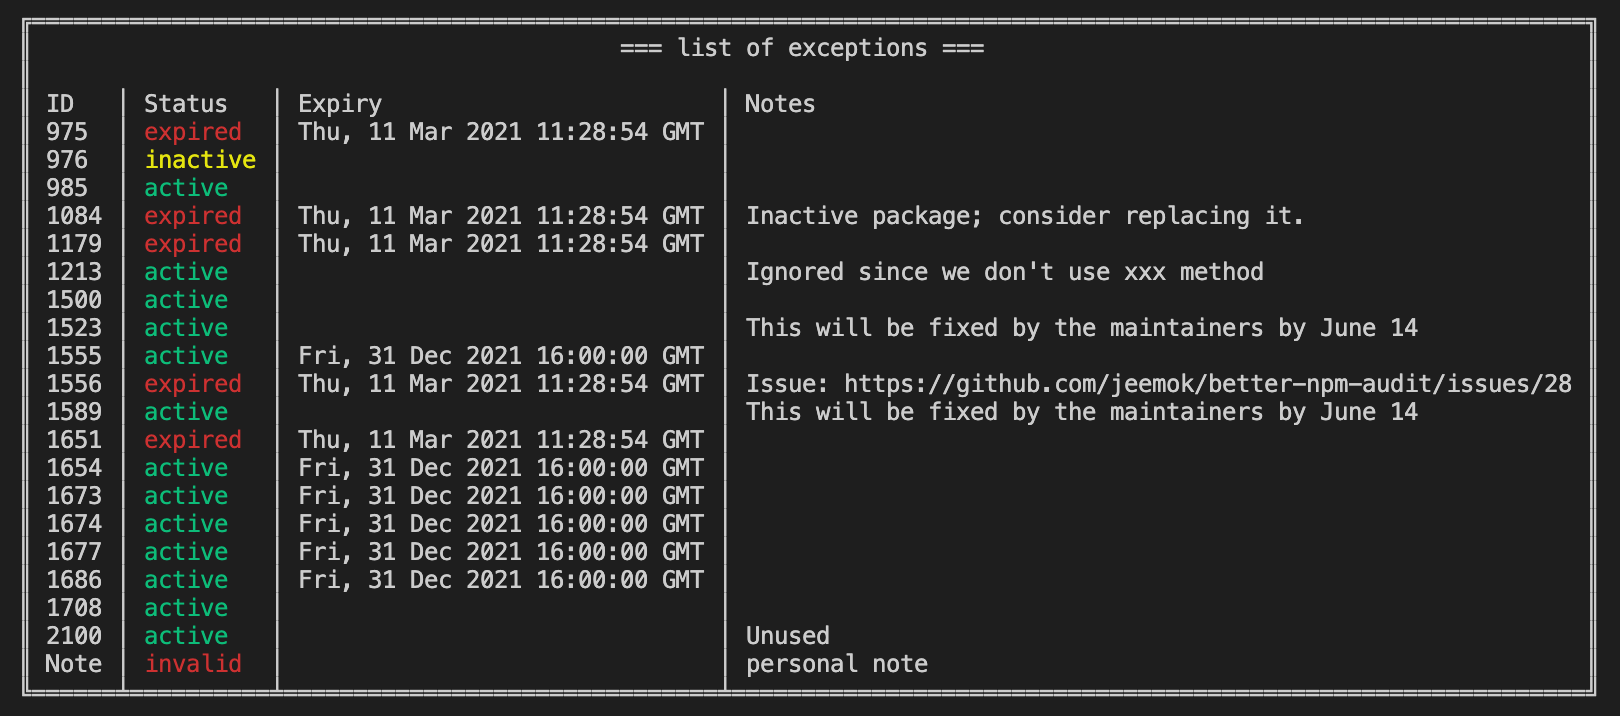
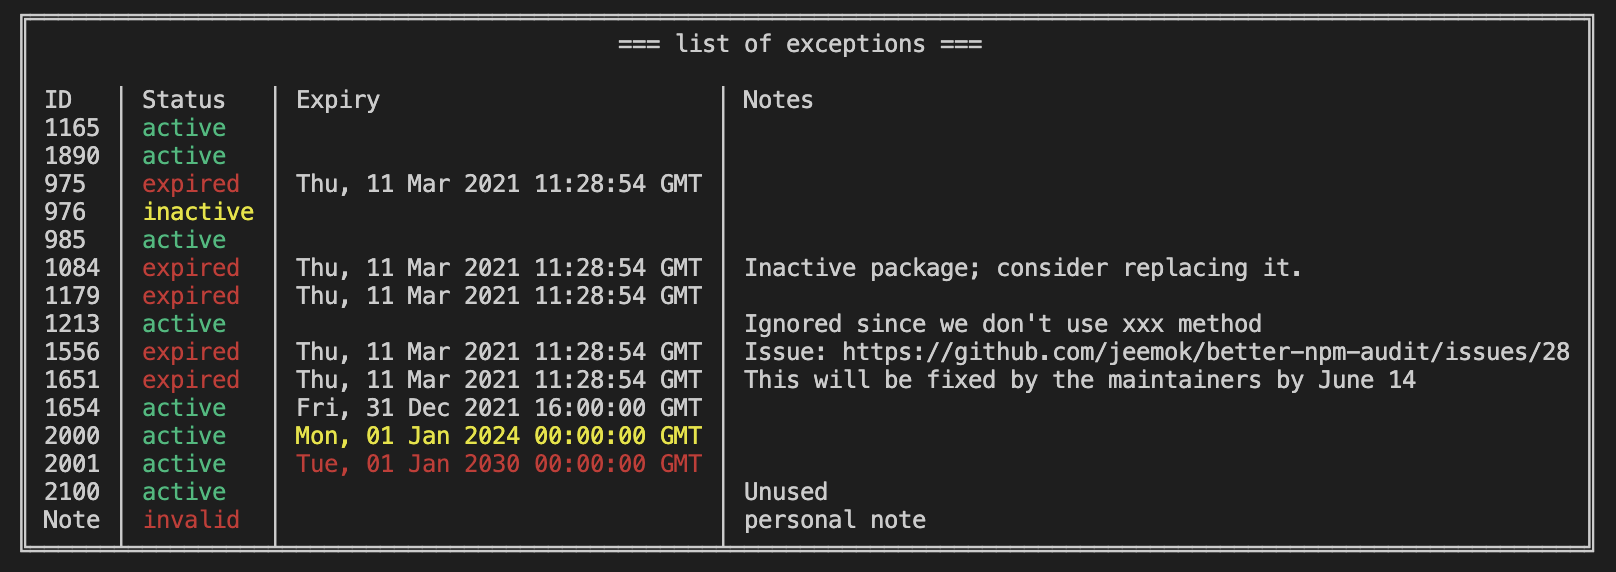
Style the exception expiry date if it is more than one or five years ago

Changed region(s): [[0.0, 0.0297, 0.9901, 0.9808], [0.4641, 0.2675, 0.8045, 0.3269], [0.4641, 0.3566, 0.7735, 0.4161]]

diff --git a/test/utils/date.test.ts b/test/utils/date.test.ts
@@ -52,46 +52,40 @@ describe('Date utils', () => {
 
     it('should be able to analyze the given timestamp correctly', () => {
       // Only dates
-      expect(analyzeExpiry('2020-01-31', '2020-01-01')).to.deep.equal({ valid: true, expired: false, days: -30, months: 0, years: 0 });
-      expect(analyzeExpiry('2020-01-31', '2020-01-31')).to.deep.equal({ valid: true, expired: false, days: 0, months: 0, years: 0 });
-      expect(analyzeExpiry('2020-01-31', '2020-02-02')).to.deep.equal({ valid: true, expired: true, days: 2, months: 0, years: 0 });
+      expect(analyzeExpiry('2020-01-31', '2020-01-01')).to.deep.equal({ valid: true, expired: false, years: 0 });
+      expect(analyzeExpiry('2020-01-31', '2020-01-31')).to.deep.equal({ valid: true, expired: false, years: 0 });
+      expect(analyzeExpiry('2020-01-31', '2020-02-02')).to.deep.equal({ valid: true, expired: true, years: 0 });
 
       // Dates & time
       expect(analyzeExpiry('1 March 2020 3:00 pm', '1 March 2020 2:59:00 pm')).to.deep.equal({
         valid: true,
         expired: false,
-        days: 0,
-        months: 0,
         years: 0,
       });
       expect(analyzeExpiry('1 March 2020 3:00 pm', '1 March 2020 3:00:00 pm')).to.deep.equal({
         valid: true,
         expired: false,
-        days: 0,
-        months: 0,
         years: 0,
       });
       expect(analyzeExpiry('1 March 2020 3:00 pm', '1 March 2020 3:00:01 pm')).to.deep.equal({
         valid: true,
         expired: true,
-        days: 0,
-        months: 0,
         years: 0,
       });
 
       // Milliseconds
-      expect(analyzeExpiry(1327611110410, 1327611110409)).to.deep.equal({ valid: true, expired: false, days: 0, months: 0, years: 0 });
-      expect(analyzeExpiry(1327611110410, 1327611110410)).to.deep.equal({ valid: true, expired: false, days: 0, months: 0, years: 0 });
-      expect(analyzeExpiry(1327611110410, 1327611110411)).to.deep.equal({ valid: true, expired: true, days: 0, months: 0, years: 0 });
+      expect(analyzeExpiry(1327611110410, 1327611110409)).to.deep.equal({ valid: true, expired: false, years: 0 });
+      expect(analyzeExpiry(1327611110410, 1327611110410)).to.deep.equal({ valid: true, expired: false, years: 0 });
+      expect(analyzeExpiry(1327611110410, 1327611110411)).to.deep.equal({ valid: true, expired: true, years: 0 });
     });
 
     it('should be able to analyze the time difference correctly', () => {
-      expect(analyzeExpiry('2020-01-31', '2020-01-01')).to.deep.equal({ valid: true, expired: false, days: -30, months: 0, years: 0 });
-      expect(analyzeExpiry('2020-01-31', '2020-02-02')).to.deep.equal({ valid: true, expired: true, days: 2, months: 0, years: 0 });
-      expect(analyzeExpiry('2020-01-31', '2020-03-01')).to.deep.equal({ valid: true, expired: true, days: 30, months: 1, years: 0 });
-      expect(analyzeExpiry('2020-01-31', '2021-01-01')).to.deep.equal({ valid: true, expired: true, days: 336, months: 11, years: 0 });
-      expect(analyzeExpiry('2020-01-31', '2021-01-31')).to.deep.equal({ valid: true, expired: true, days: 366, months: 12, years: 1 });
-      expect(analyzeExpiry('2020-01-31', '2025-10-10')).to.deep.equal({ valid: true, expired: true, days: 2079, months: 68, years: 5 });
+      expect(analyzeExpiry('2020-01-31', '2020-01-01')).to.deep.equal({ valid: true, expired: false, years: 0 });
+      expect(analyzeExpiry('2020-01-31', '2020-02-02')).to.deep.equal({ valid: true, expired: true, years: 0 });
+      expect(analyzeExpiry('2020-01-31', '2020-03-01')).to.deep.equal({ valid: true, expired: true, years: 0 });
+      expect(analyzeExpiry('2020-01-31', '2021-01-01')).to.deep.equal({ valid: true, expired: true, years: 0 });
+      expect(analyzeExpiry('2020-01-31', '2021-01-31')).to.deep.equal({ valid: true, expired: true, years: 1 });
+      expect(analyzeExpiry('2020-01-31', '2025-10-10')).to.deep.equal({ valid: true, expired: true, years: 5 });
     });
   });
 });

diff --git a/test/utils/vulnerability.test.ts b/test/utils/vulnerability.test.ts
@@ -39,7 +39,7 @@ describe('Vulnerability utils', () => {
       const cmdExceptions = [1165, 1890];
       expect(consoleStub.called).to.equal(false);
       const result = getExceptionsIds(NSPRC, cmdExceptions);
-      expect(result).to.have.length(6).and.deep.equal([1165, 1890, 985, 1213, 1654, 2100]);
+      expect(result).to.have.length(8).and.deep.equal([1165, 1890, 985, 1213, 1654, 2000, 2001, 2100]);
       expect(consoleStub.called).to.equal(true); // Print security report
       consoleStub.restore();
     });
@@ -51,25 +51,25 @@ describe('Vulnerability utils', () => {
       const result = processExceptions(NSPRC, cmdExceptions);
 
       expect(result).to.have.property('exceptionIds');
-      expect(result.exceptionIds).to.have.length(6).and.to.deep.equal([1165, 1890, 985, 1213, 1654, 2100]);
+      expect(result.exceptionIds).to.have.length(8).and.to.deep.equal([1165, 1890, 985, 1213, 1654, 2000, 2001, 2100]);
       expect(result).to.have.property('report');
-      expect(result.report).to.have.length(13).and.to.deep.equal(EXCEPTION_TABLE_DATA);
+      expect(result.report).to.have.length(15).and.to.deep.equal(EXCEPTION_TABLE_DATA);
     });
 
     it('should be able to filter active exceptions and label correctly', () => {
       const result = processExceptions(NSPRC);
-      expect(result).to.have.property('exceptionIds').and.to.have.length(4);
+      expect(result).to.have.property('exceptionIds').and.to.have.length(6);
       expect(result).to.have.property('report');
 
       const activeExceptionIds = result.report
         .filter((exception: string[]) => exception[1] === '\u001b[32mactive\u001b[0m')
         .map((each: (string | number)[]) => Number(each[0]));
-      expect(activeExceptionIds).to.have.length(4).to.deep.equal([985, 1213, 1654, 2100]);
+      expect(activeExceptionIds).to.have.length(6).to.deep.equal([985, 1213, 1654, 2000, 2001, 2100]);
     });
 
     it('should be able to filter inactive exceptions and label correctly', () => {
       const result = processExceptions(NSPRC);
-      expect(result).to.have.property('exceptionIds').and.to.have.length(4);
+      expect(result).to.have.property('exceptionIds').and.to.have.length(6);
       expect(result).to.have.property('report');
 
       const activeExceptionIds = result.report
@@ -81,7 +81,7 @@ describe('Vulnerability utils', () => {
     it('should be able to filter expired exceptions and label correctly', () => {
       const dateStub = sinon.stub(Date, 'now').returns(new Date(Date.UTC(2021, 6, 1)).valueOf());
       const result = processExceptions(NSPRC);
-      expect(result).to.have.property('exceptionIds').and.to.have.length(4);
+      expect(result).to.have.property('exceptionIds').and.to.have.length(6);
       expect(result).to.have.property('report');
 
       const activeExceptionIds = result.report
@@ -95,7 +95,7 @@ describe('Vulnerability utils', () => {
 
     it('should be able to filter invalid exceptions and label correctly', () => {
       const result = processExceptions(NSPRC);
-      expect(result).to.have.property('exceptionIds').and.to.have.length(4);
+      expect(result).to.have.property('exceptionIds').and.to.have.length(6);
       expect(result).to.have.property('report');
 
       const activeExceptionIds = result.report

diff --git a/src/utils/vulnerability.ts b/src/utils/vulnerability.ts
@@ -187,10 +187,10 @@ export function processExceptions(nsprc: NsprcFile, cmdExceptions: number[] = []
       const numberId = Number(id);
       const isValidId = !isNaN(numberId);
       const isActive = Boolean(get(details, 'active', true)); // default to true
-      const expiryDate = get(details, 'expiry') ? new Date(get(details, 'expiry')).toUTCString() : '';
       const notes = typeof details === 'string' ? details : get(details, 'notes', '');
-      const { valid, expired } = analyzeExpiry(get(details, 'expiry'));
+      const { valid, expired, years } = analyzeExpiry(get(details, 'expiry'));
 
+      // Color the status accordingly
       let status = color('active', 'green');
       if (expired) {
         status = color('expired', 'red');
@@ -198,6 +198,15 @@ export function processExceptions(nsprc: NsprcFile, cmdExceptions: number[] = []
         status = color('invalid', 'red');
       } else if (!isActive) {
         status = color('inactive', 'yellow');
+      }
+
+      // Color the date accordingly
+      let expiryDate = get(details, 'expiry') ? new Date(get(details, 'expiry')).toUTCString() : '';
+      // If it was expired for more than 5 years ago, warn by coloring the date in red
+      if (years && years <= -5) {
+        expiryDate = color(expiryDate, 'red');
+      } else if (years && years <= -1) {
+        expiryDate = color(expiryDate, 'yellow');
       }
 
       acc.report.push([id, status, expiryDate, notes]);

diff --git a/src/utils/date.ts b/src/utils/date.ts
@@ -30,8 +30,6 @@ export function analyzeExpiry(expiry?: string | number, now: string | number = n
   return {
     valid: true,
     expired: dayjsNow.isAfter(expiry),
-    days: dayjsNow.diff(expiry, 'days'),
-    months: dayjsNow.diff(expiry, 'months'),
     years: dayjsNow.diff(expiry, 'years'),
   };
 }

diff --git a/src/types/date.d.ts b/src/types/date.d.ts
@@ -1,7 +1,5 @@
 export type DateAnalysis = {
   valid: boolean;
   expired?: boolean;
-  days?: number;
-  months?: number;
   years?: number;
 };

diff --git a/README.md b/README.md
@@ -104,7 +104,7 @@ You may add a file `.nsprc` to your project root directory to manage the excepti
     "notes": "Ignored since we don't use xxx method"
   },
   "980": "Ignored since we don't use xxx method",
-  "Note": "Any non number key will not be excepted"
+  "Note": "Any non number key will not be accepted"
 }
 ```
 
@@ -118,9 +118,11 @@ You may add a file `.nsprc` to your project root directory to manage the excepti
 
 <br />
 
-When using a `.nsprc` file, you will see this report display when it starts running:
+When using a `.nsprc` file, a report will be displayed when it starts running:
 
 <img src="./.README/exceptions_table.png" alt="Demo of table displaying a list of exceptions" />
+
+> Note: the expiry date will be styled in yellow and red color if it is detected more than one or five years ago.
 
 <br />
 

diff --git a/CHANGELOG.md b/CHANGELOG.md
@@ -3,6 +3,7 @@
 - Updated declaration file extension so it will not be included in final build
 - Added multiple date format support for `expiry` field
 - Added `dayjs` package
+- Style the exception expiry date if it is more than one or five years ago
 
 ## 3.0.1 (July 11, 2021)
 
